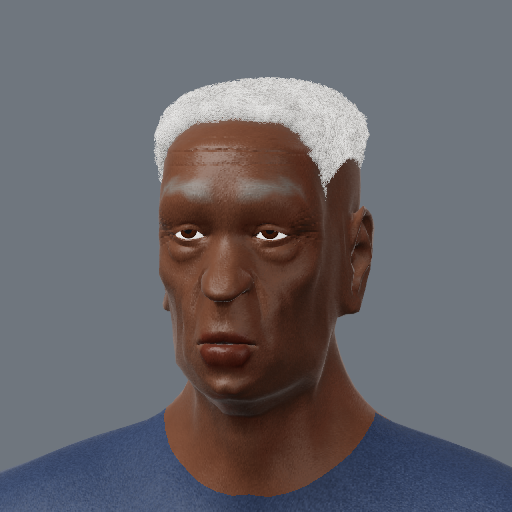
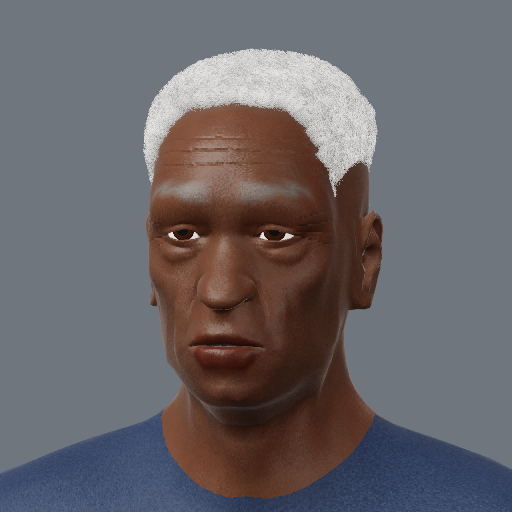
poc(faces): keep shape genes within human proportions
MakeHuman shape targets at full weight are caricature extremes; the
previous 1.35 gain pushed skulls and jaws out of human range. Cap each
shape gene's reach (skull and overall proportions 0.25, fullness/jaw/
forehead 0.3, features 0.45) and enlarge the iris. Re-render sheets.

Claude-Session: https://claude.ai/code/session_01E2KGY6pzn4KX3JkJdTAxuh

diff --git a/poc/faces/src/head.rs b/poc/faces/src/head.rs
@@ -171,8 +171,10 @@ impl BaseHead {
 
         // Identity: signed shape axes.
         for (axis, decr, incr) in SHAPE_TARGETS {
-            // Gain so identity differences read at portrait size.
-            let x = (g.shape_axis(axis) * 1.35).clamp(-1.0, 1.0);
+            // MakeHuman targets at weight 1 are caricature extremes. Normal
+            // human variation is a fraction of that: skull and overall
+            // proportions vary least, features a little more.
+            let x = g.shape_axis(axis) * shape_range(axis);
             push_signed(&mut w, decr, incr, x);
         }
 
@@ -212,6 +214,15 @@ const SHAPE_TARGETS: [(&str, &str, &str); 24] = [
     ("ear-size", "ears/{s}-ear-scale-decr", "ears/{s}-ear-scale-incr"),
     ("neck-width", "neck/neck-scale-horiz-decr", "neck/neck-scale-horiz-incr"),
 ];
+
+/// Largest target weight a shape gene of +-1 can reach.
+fn shape_range(axis: &str) -> f32 {
+    match axis {
+        "head-width" | "head-height" | "head-depth" | "head-square-oval" | "neck-width" => 0.25,
+        "face-fullness" | "jaw-width" | "forehead-height" => 0.3,
+        _ => 0.45,
+    }
+}
 
 fn expand(name: &str) -> Vec<String> {
     if name.contains("{s}") {

diff --git a/poc/faces/photo_finish/finish.py b/poc/faces/photo_finish/finish.py
@@ -180,7 +180,7 @@ def main():
     ap.add_argument("--seed", type=int, default=0)
     ap.add_argument("--guidance", type=float, default=5.0)
     ap.add_argument("--adapter-scale", type=float, default=0.8)
-    ap.add_argument("--res", type=int, default=768, help="internal working resolution (multiple of 64)")
+    ap.add_argument("--res", type=int, default=512, help="internal working resolution (multiple of 64)")
     ap.add_argument("--threads", type=int, default=os.cpu_count())
     ap.add_argument("--arena", action="store_true", help="enable ORT CPU memory arena (more RAM)")
     ap.add_argument("--log", help="append one JSON line per image to this file")
